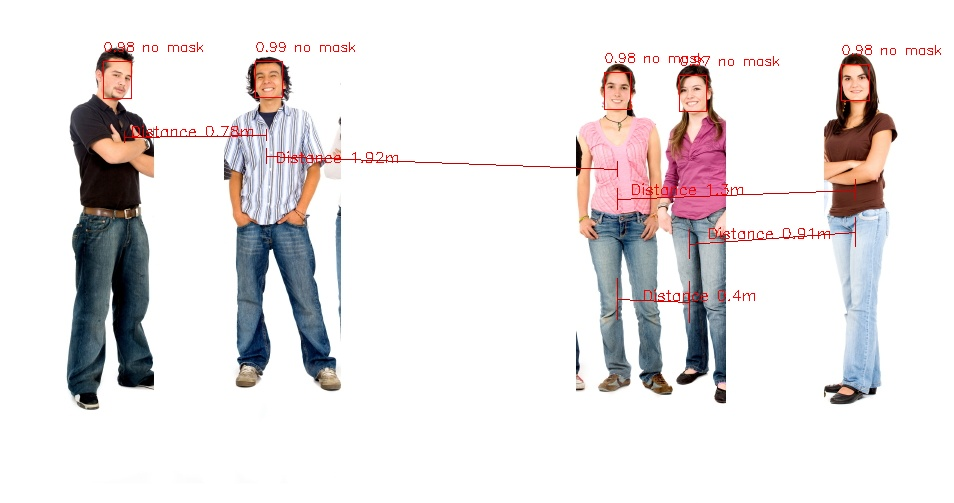
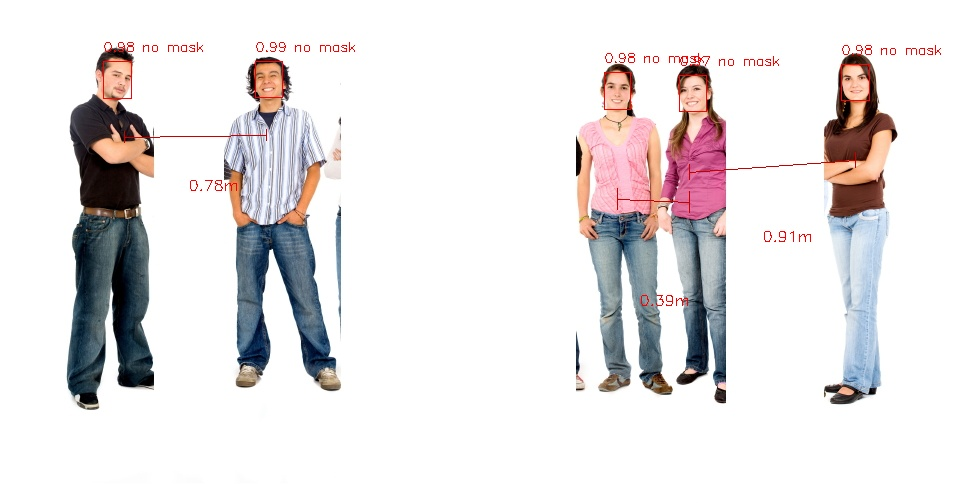
commit

diff --git a/html/assets/js/social_dist_image.js b/html/assets/js/social_dist_image.js
@@ -1,0 +1,180 @@
+async function distanciation_social_mask() {
+    console.log("detect_image()");
+    // await tf.setBackend(state.backend);
+    const detection_model_image = await blazeface.load();
+    const classification_model_image = await tf.loadLayersModel('/html/assets/classification_model/model.json');
+    // console.log(classification_model_ing)
+  
+    const returnTensors = false; // Pass in `true` to get tensors back, rather than values.
+    console.log("Calling detection model");
+    const predictions = await detection_model_image.estimateFaces(document.querySelector("#imageResult"), returnTensors);
+    console.log("predictions done");
+  
+    const img = document.getElementById('imageResult');
+    var img_width = img.clientWidth;
+    var img_height = img.clientHeight;
+  
+    const img_tensor = tf.browser.fromPixels(img)
+  
+  
+    canvas_img_2 = document.getElementById('myCanvas');
+    canvas_img_2.width = img_width;
+    canvas_img_2.height = img_height;
+    ctx_img_2 = canvas_img_2.getContext('2d');
+  
+  
+    if (predictions.length > 0) {
+  
+      /*
+      `predictions` is an array of objects describing each detected face, for example:
+  
+      [
+        {
+          topLeft: [232.28, 145.26],
+          bottomRight: [449.75, 308.36],
+          probability: [0.998],
+          landmarks: [
+            [295.13, 177.64], // right eye
+            [382.32, 175.56], // left eye
+            [341.18, 205.03], // nose
+            [345.12, 250.61], // mouth
+            [252.76, 211.37], // right ear
+            [431.20, 204.93] // left ear
+          ]
+        }
+      ]
+      */
+  
+      /* constants for socialdistanciation */ 
+      const focal = 1.18 ;/* pixels */ 
+      const mean_dim_face = 24.65;    // mean between women and men
+      var people_coord = Array(predictions.length);
+      var social_dist_array = Array(predictions.length).fill().map(() => Array(predictions.length).fill(0));
+      var counter = 1 ;
+      const color_wrong = "rgba(255, 0, 0, 1)" ;
+      const pixels_face = predictions[0].bottomRight[1]-predictions[0].topLeft[1] ;
+      const ratio_pix_cm= (0.8*mean_dim_face)/pixels_face ;
+      
+      for (let i = 0; i < predictions.length; i++) {
+  
+        const start = predictions[i].topLeft;
+        const end = predictions[i].bottomRight;
+  
+        x = start[0]
+        y = start[1]
+        width = start[0] - end[0]
+        height = start[1] - end[1]
+  
+        diff = 0
+  
+        if (height < width) {
+  
+          delta = parseInt(Math.round((height - width) / 2))
+          y_min = y - diff - delta
+          y_max = y + height + diff
+          x_min = x - delta - diff
+          x_max = x + width + delta + diff
+  
+          width_ = x_min - x_max
+          width_delta = width_ / 3
+          height_delta = width_ / 10
+  
+          x_ = start[0] + delta + width_delta / 2
+          y_ = start[1]
+          width_ = width_ - width_delta
+          height_ = y_min - y_max
+  
+  
+        } else if (width < height) {
+  
+          delta = parseInt(Math.round((width - height) / 2))
+          y_min = y - delta - diff
+          y_max = y + height + delta + diff
+          x_min = x - diff
+          x_max = x + width + diff
+  
+          width_ = x_min - x_max
+          width_delta = width_ / 3
+          height_delta = width_ / 10
+  
+          x_ = start[0] + width_delta / 2
+          y_ = start[1] + delta
+          width_ = width_ - width_delta
+          height_ = y_min - y_max
+  
+        }
+  
+  
+  
+        x_normed = x_ / img_width
+        y_normed = y_ / img_height
+        width_normed = width_ / img_width
+        height_normed = height_ / img_height
+  
+  
+        reshaped = img_tensor.reshape([1, Math.floor(img_height), Math.floor(img_width), 3])
+        resized = tf.image.cropAndResize(reshaped, [[y_normed, x_normed, y_normed + height_normed, x_normed + width_normed]], [0], [128, 128])
+        normed = resized.div(255.0)
+  
+        prediction = classification_model_image.predict(normed).dataSync()
+        prediction_class = prediction.reduce((iMax, x, i, arr) => x > arr[iMax] ? i : iMax, 0);
+  
+        console.log(prediction)
+  
+  
+        var color = ""
+        var title = ""
+  
+        if (prediction_class == 0) {
+          color = "rgba(255, 0, 0, 1)"
+          title = "no mask"
+        } else if (prediction_class == 1) {
+          color = "rgba(0, 255, 0, 1)"
+          title = "ok mask"
+        } else {
+          color = "rgba(255, 165, 0, 1)"
+          title = "bad mask"
+        }
+  
+  
+        title = title + " - " + prediction[prediction_class].toFixed(2);
+  
+        ctx_img_2.strokeStyle = color;
+        ctx_img_2.fillStyle = color;
+        ctx_img_2.lineWidth = "2";
+        ctx_img_2.strokeRect(x_, y_, width_, height_);
+  
+        ctx_img_2.fillStyle = color;
+        ctx_img_2.font = "100 15px Helvetica";
+        ctx_img_2.fillText(title, x_ + 5, y_ - 5);
+  
+        
+  
+  
+        // canvas2 = document.getElementById('canvas2');
+        // canvas2.width = 128;
+        // canvas2.height = 128;
+        // final = tf.squeeze(normed)
+        // pixel = tf.browser.toPixels(final, canvas2)
+        
+        let pixels_face_temp = predictions[i].bottomRight[1]-predictions[i].topLeft[1]
+        let ratio_pix_cm_temp= (0.8*mean_dim_face)/pixels_face_temp
+        let Z_center_cm = focal*ratio_pix_cm_temp
+        let X_center_cm = predictions[i].landmarks[2][0] * ratio_pix_cm
+        let Y_center_cm = predictions[i].landmarks[2][1] * ratio_pix_cm
+        people_coord.push([X_center_cm, Y_center_cm, Z_center_cm])
+        console.log(people_coord)
+        counter++
+      }
+    }
+    console.log(people_coord)
+  
+    for (let person1 = 0; person1 < counter; person1++) {
+      for (let person2 = 0; person2 < counter; person2++) {
+        if (person2 != person1) {
+          social_dist_array[person1][person2] = Math.sqrt((people_coord[person1][0]-people_coord[person2][0])**2+(people_coord[person1][1]-people_coord[person2][1])**2+(people_coord[person1][2]-people_coord[person2][2])**2)
+        }
+      }
+    }
+  }
+  

diff --git a/html/dist_social.html b/html/dist_social.html
@@ -81,10 +81,10 @@
 
                         <div class="collapse navbar-collapse sub-menu-bar" id="navbarTwo">
                             <ul class="navbar-nav m-auto">
-                                <li class="nav-item active"><a class="page-scroll" href="#home">home</a></li>
+                                <li class="nav-item active"><a class="page-scroll" href="index.html">home</a></li>
                                 <li class="nav-item"><a class="page-scroll" href="image.html">Image</a></li>
                                 <li class="nav-item"><a class="page-scroll" href="video.html">Video</a></li>
-                                <li class="nav-item"><a class="page-scroll" href="dist_social.html">Social Distance</a></li>
+                                <li class="nav-item"><a class="page-scroll" href="#">Distancing</a></li>
                                 <li class="nav-item"><a class="page-scroll" href="#about">Recog</a></li>
                             </ul>
                         </div>
@@ -98,36 +98,59 @@
 
     <!--====== SLIDER PART START ======-->
 
-    <section id="home" class="slider_area">
-        <div id="carouselThree" class="carousel slide" data-ride="carousel">
-            <div class="carousel-inner">
-                <div class="carousel-item active">
-                    <div class="container">
-                        <div class="row">
-                            <div class="col-lg-6">
-                                <div class="slider-content">
-                                    <h1 class="title">Facemask detector</h1>
-                                    <p class="text">A responsible tool</p>
-                                    <ul class="slider-btn rounded-buttons">
-                                        <li><a class="main-btn rounded-one" href="image.html">Image upload</a></li>
-                                        <li><a class="main-btn rounded-two" href="video.html">Webcam</a></li>
-                                    </ul>
-                                </div>
-                            </div>
-                        </div> <!-- row -->
-                    </div> <!-- container -->
-                    <div class="slider-image-box d-none d-lg-flex align-items-end">
-                        <!--<div class="slider-image">
-                            <img src="assets/images/slider/1.png" alt="Hero">
-                        </div> -->
-                        <!-- slider-imgae -->
-                    </div><!-- slider-imgae box -->
-                </div> <!-- carousel-item -->
-            </div>
-        </div>
-    </section>
+
 
     <!--====== SLIDER PART ENDS ======-->
+
+    <!--====== IMAGE UPLOAD ======-->
+
+    <section id="services" class="features-area">
+        <div class="container">
+            <div class="row justify-content-center">
+                <div class="col-lg-6 col-md-10">
+                    <div class="section-title text-center pb-10">
+                        <h3 class="title">Image upload</h3>
+                        <p class="text">Upload an image. We call the Police.</p>
+                    </div> <!-- row -->
+                    <div class="container py-5">
+                        <!-- For demo purpose -->
+                        <div class="row py-4">
+                            <div class="mx-auto">
+
+                                <!-- Upload image input-->
+                                <div class="input-group mb-3 px-2 py-2 rounded-pill bg-white shadow-sm">
+                                    <input id="upload" type="file" onchange="readURL_social(this);"
+                                        class="form-control border-0">
+                                    <label id="upload-label" for="upload" class="font-weight-light text-muted">Choose
+                                        file</label>
+                                    <div class="input-group-append">
+                                        <label for="upload" class="btn btn-light m-0 rounded-pill px-4"> <i
+                                                class="fa fa-cloud-upload mr-2 text-muted"></i><small
+                                                class="text-uppercase font-weight-bold text-muted">Choose
+                                                file</small></label>
+                                    </div>
+                                </div>
+
+                                <!-- Uploaded image area-->
+                                <div id="myContainer" class="image-area mt-4">
+                                    <img id="imageResult" src="#" alt=""
+                                        class="img-fluid rounded shadow-sm mx-auto d-block">
+                                    <canvas id="myCanvas"></canvas>
+                                    <!-- <canvas id="canvas2"></canvas> -->
+                                </div>
+
+                            </div>
+                        </div>
+                    </div>
+                </div>
+            </div> <!-- row -->
+
+        </div> <!-- container -->
+    </section>
+
+    <!--====== FEATRES TWO PART ENDS ======-->
+
+    <!--====== CONTACT PART ENDS ======-->
 
     <!--====== FOOTER PART START ======-->
 
@@ -197,6 +220,11 @@
     <!--====== Scrolling Nav js ======-->
     <script src="assets/js/jquery.easing.min.js"></script>
     <script src="assets/js/scrolling-nav.js"></script>
+
+    <script src="https://cdn.jsdelivr.net/npm/@tensorflow/tfjs"></script>
+    <script src="https://cdn.jsdelivr.net/npm/@tensorflow-models/blazeface"></script>
+
+    <script src="assets/js/social_dist_image.js"></script>
 
     <!--====== Main js ======-->
     <script src="assets/js/main.js"></script>

diff --git a/html/assets/js/main.js b/html/assets/js/main.js
@@ -202,3 +202,16 @@ function readURL(input) {
         // detect_image()
     }
 }
+
+
+function readURL_social(input) {
+    if (input.files && input.files[0]) {
+        var reader = new FileReader();
+        reader.onload = function (e) {
+            $('#imageResult').attr('src', e.target.result);
+            distanciation_social_mask();
+        };
+        reader.readAsDataURL(input.files[0]);
+        // detect_image()
+    }
+}

diff --git a/facemask/social_dist_from_image.py b/facemask/social_dist_from_image.py
@@ -152,13 +152,13 @@ print(people_coord)
 for person1 in range(counter):
     for person2 in range(counter):
         if person2 != person1:
-            x0_1=min(detections[person1]['keypoints']['nose'][0],detections[person2]['keypoints']['nose'][0])
+            x0_1=(detections[person1]['keypoints']['nose'][0]+detections[person2]['keypoints']['nose'][0])/2
             x1=detections[person1]['keypoints']['nose'][0]
             y1=detections[person1]['keypoints']['nose'][1]
             x2=detections[person2]['keypoints']['nose'][0]
             y2=detections[person2]['keypoints']['nose'][1]        
-            if social_dist_array[person1][person2] <= 200 and social_dist_array[person1][person2] != 0:
-                cv2.putText(image, f"Distance {round(social_dist_array[person1][person2]/100,2)}m", (int(x0_1+offset/8),int((y1+y2)/2)+offset), cv2.FONT_HERSHEY_SIMPLEX, 0.5, color_wrong, 1)
+            if social_dist_array[person1][person2] <= 100 and social_dist_array[person1][person2] != 0:
+                cv2.putText(image, f"{round(social_dist_array[person1][person2]/100,2)}m", (int(x0_1-offset/8),int((y1+y2)/2)+1.2*offset), cv2.FONT_HERSHEY_SIMPLEX, 0.5, color_wrong, 1)
                 cv2.line(image,(x1,y1+offset),(x2,y2+offset), (200,0,0), 1)
                 cv2.line(image,(x1,int(y1+0.90*offset)), (x1,int(y1+1.10*offset)), (200,0,0), 1)
                 cv2.line(image,(x2,int(y2+0.90*offset)), (x2,int(y2+1.10*offset)), (200,0,0), 1)
